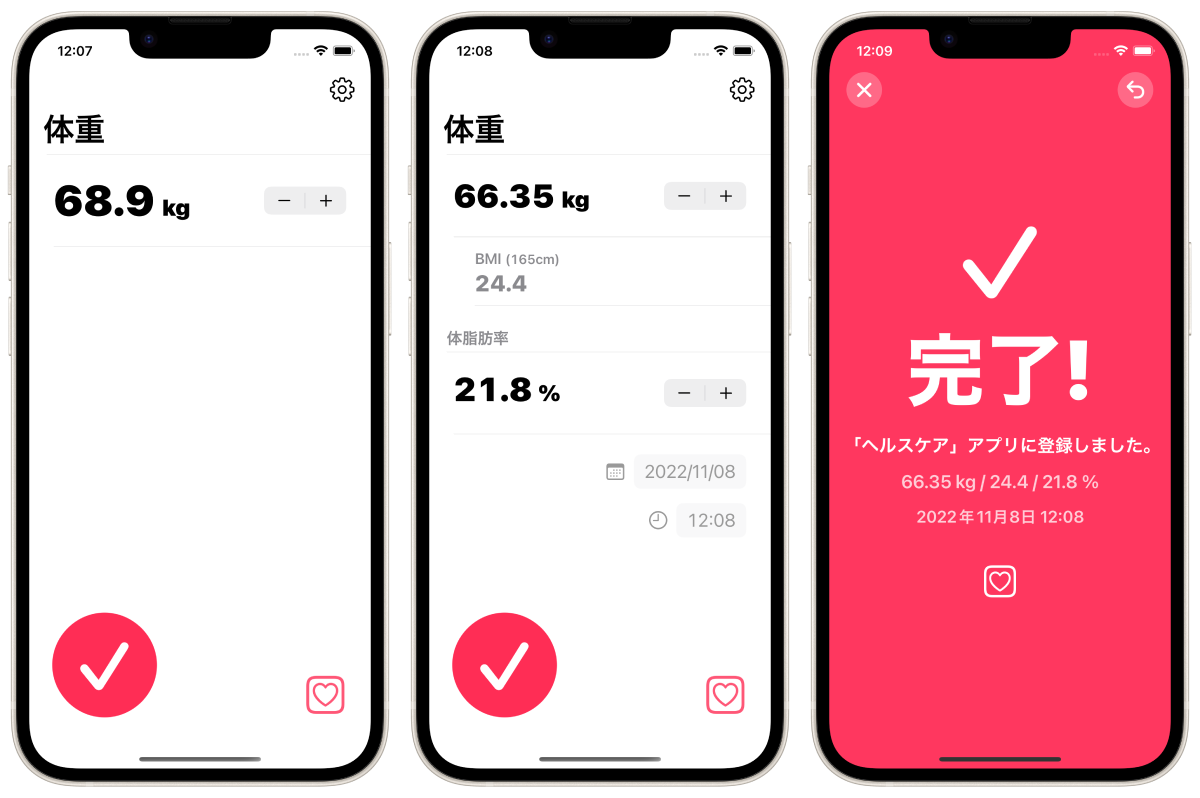
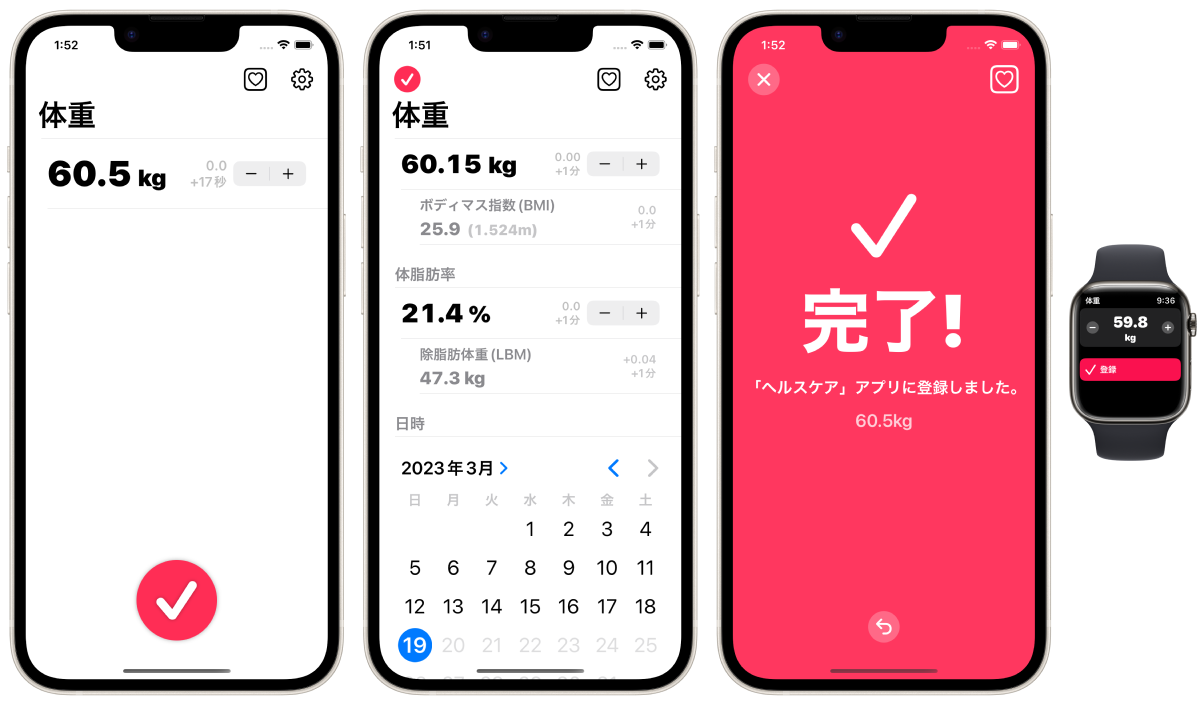
tw1.4

diff --git a/TapWeight/index.md b/TapWeight/index.md
@@ -1,7 +1,7 @@
 ---
 layout: product
 folderName: TapWeight
-description: iPhoneにプリインストールされているApple「ヘルスケア」アプリに体重データを(手動としては)最速で登録するためのアプリです。iPhone専用アプリ。
+description: iPhoneにプリインストールされているApple「ヘルスケア」アプリに体重データを(手動としては)最速で登録するためのアプリです。iPhone/Apple Watch専用アプリ。
 ---
 
 TapWeight 体重登録
@@ -20,37 +20,51 @@ _「ヘルスケア」アプリに体重データを最速で登録しよう_
 
 概要
 --------------------
-iPhoneにプリインストールされているApple「ヘルスケア」アプリに体重データを(手動としては)最速で登録するためのアプリです。iPhone専用アプリ。
+iPhoneにプリインストールされているApple「ヘルスケア」アプリに体重データを(手動としては)最速で登録するためのアプリです。iPhone/Apple Watch専用アプリ。
 
-### 想定ユーザー / ユースケース
+
+想定ユーザー / ユースケース
+
 - スマート体重計を持っていない。
+
 - 日常的に体重や体脂肪率を体重計で計測している。
+
 - 体重計で測定した直後、毎回手動で測定結果を「ヘルスケア」アプリに登録する事を検討している。
 
-### オプション
-- 単位
-  - kg キログラム
-  - lbs ポンド
-  - st ストーン
-- 入力単位を100gから50gへ変更可能
-- BMIを自動的に計算して同時に登録可能
-- 体脂肪率も同時に登録可能
-- 登録日時を変更できる機能
 
-### その他
-- このアプリ内からApple「ヘルスケア」アプリをワンタップで立ち上げ可能
-- 登録直後に登録を取り消し可能
-- 動作確認や簡易バックアップを想定した端末内での履歴機能
+オプション
 
-### 注意
+- BMIを自動的に計算して同時に登録可能。
+
+- 体脂肪率も同時に登録可能。
+
+- 除脂肪体重(LBM)を自動的に計算して同時に登録可能。
+
+- 入力単位を100gから50gへ変更可能。
+
+- Apple Watch に対応。
+
+- リマインダー通知機能。
+
+- 登録日時を変更できる機能。
+
+- 広告バナー非表示オプション。(アプリ内課金)
+
+- 単位: kg, lbs, st
+
+
+その他
+
+- このアプリ内からApple「ヘルスケア」アプリをワンタップで立ち上げ可能。
+
+- 登録直後に登録を取り消し可能。
+
+
+コンセプト
+
+人々は体重計を用いて体重や体脂肪率は日々頻繁に計測します。多くのiPhoneユーザーは「ヘルスケア」アプリ上に体重や体脂肪率のデータを登録しています。「ヘルスケア」アプリと連携して自動的に計測データを保存してくれるスマート体重計を用いることが最高の解決策ではありますが、それらは高価であったり入手性が低かったりします。「ヘルスケア」アプリ上で手動でもデータ登録は可能ですが、残念ながら「ヘルスケア」アプリは計測データを日常的に手動で登録することを想定されていません。そのため体重測定のような日々継続的に発生するデータを手動で入力することは大いに手間が掛かりストレスフルな体験になります。そうした課題を解決するためにこのアプリは開発しました。
+
 このアプリでは「ヘルスケア」アプリ上の過去のデータの読み込みや閲覧、管理等は出来ません。このアプリは「ヘルスケア」アプリへのデータ登録のみを目的としています。登録したデータは「ヘルスケア」アプリ上で確認してください。
-
-### 背景
-人々は体重計を用いて体重や体脂肪率は日々頻繁に計測します。そして、多くのiPhoneユーザーは「ヘルスケア」アプリ上に体重や体脂肪率のデータを登録しています。
-
-「ヘルスケア」アプリと連携して自動的に計測データを保存してくれるスマート体重計を用いることが最高の解決策ではありますが、それらは高価であったり入手性が低かったりします。「ヘルスケア」アプリ上で手動でもデータ登録は可能ですが、残念ながら「ヘルスケア」アプリは計測データを日常的に手動で登録することを想定されていません。そのため体重測定のような日々継続的に発生するデータを手動で入力することは大いに手間が掛かりストレスフルな体験になります。
-
-そうした課題を解決するためにこのアプリを開発しました。
 
 * * *
 
@@ -69,7 +83,7 @@ iPhoneにプリインストールされているApple「ヘルスケア」アプ
 - 全て
   - 日本語
   - 英語
-- 主要3単語(体温/基礎体温/ヘルスケア)のみ翻訳
+- 主要単語のみ翻訳
   - 中国語 簡体字
   - 中国語 繁体字
   - スペイン語
